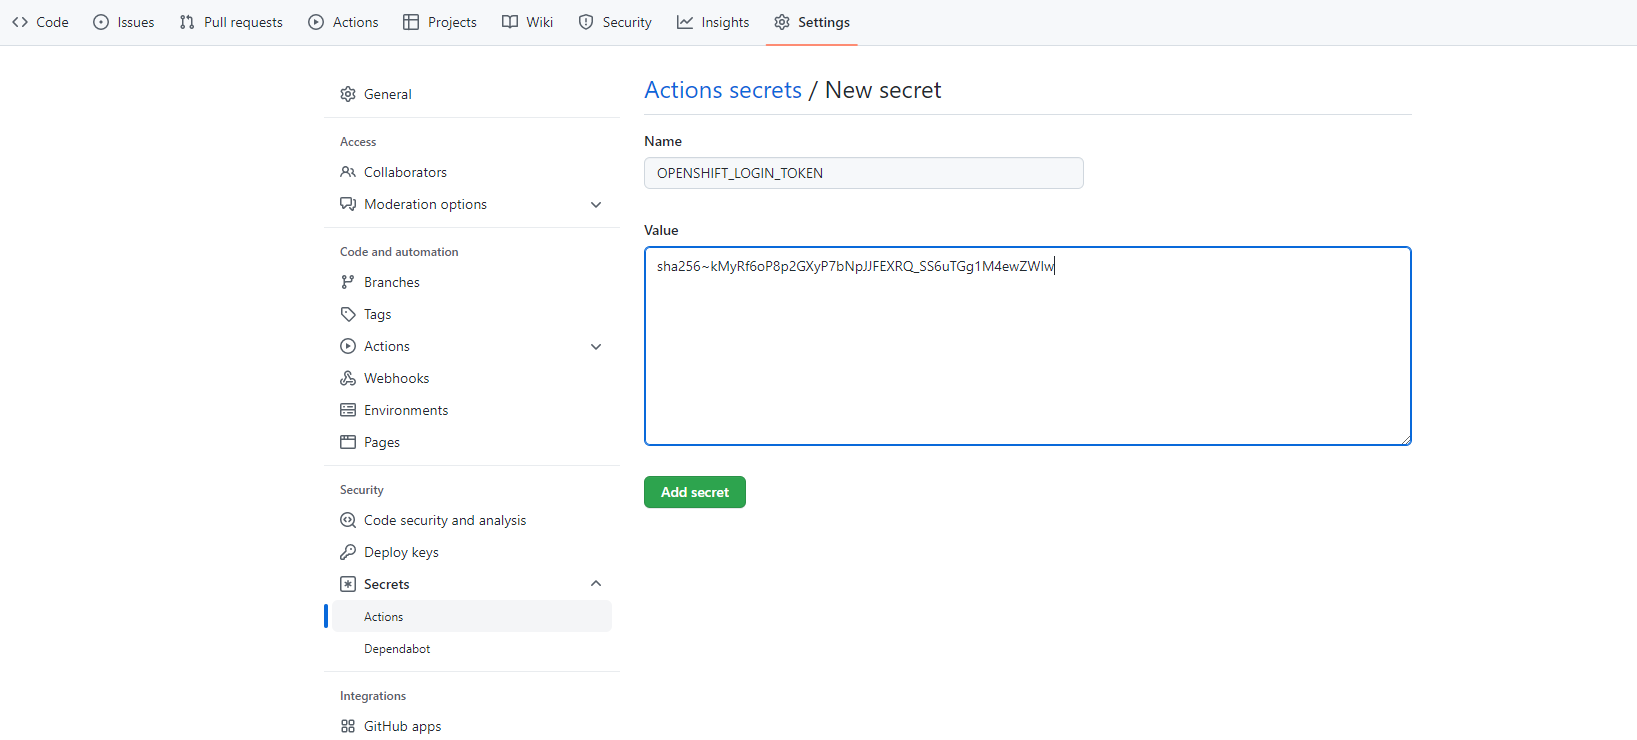
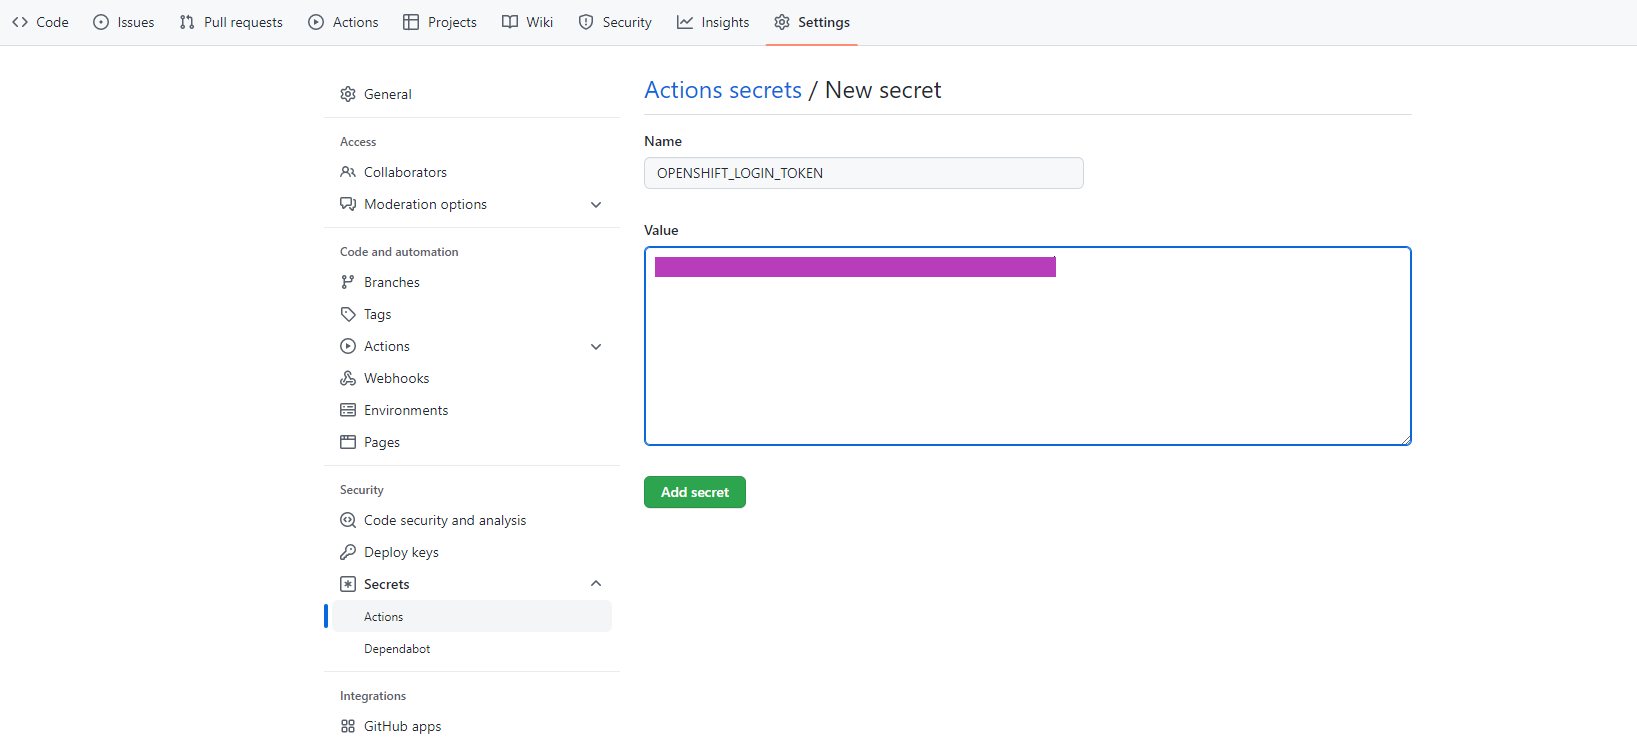
finalizing almost

Changed region(s): [[0.3739, 0.3419, 0.6542, 0.373]]

diff --git a/README.md b/README.md
@@ -28,15 +28,24 @@ With your OpenShift 4 cluster setup, we can now proceed with the demonstration u
 
   - **APIMATICLICENSEBLOB**:
     This is the APIMatic CodeGen License string that will be used to start up the APIMatic CodeGen instances.
+    ![Github secrets](./docs/7.png)
   - **OPENSHIFT_LOGIN_SERVER**:
-    This is the value found when you click on the _Copy login command_ as shown below:
+    This is the value found when you click on the _Copy login command_ as shown below. Copy the values masked by green:
+    ![Login Page](./docs/1.png)
+    ![Click Token](./docs/2.png)
+    ![Credentials](./docs/3.png)
+    ![Server](./docs/4.png)
   - **OPENSHIFT_LOGIN_TOKEN**:
-    This is the server value found when you click on the _Copy login command_ as shown below:
+    This is the token value found when you click on the _Copy Login Command_. Copy the value maked by pink:
+    ![Token](./docs/5.png)
   - **OPENSHIFT_PROJECT**:
     This is the name of the OpenShift project that will be created in which the Tekton tasks and pipeline resources will be deployed as well as the
     APIMatic CodeGen Server and the DX Portal resources.
+    ![Namespace](./docs/6.png)
 
   Once these are setup, your GitHub Repo secrets page should be as shown below:
+
+  ![GitHub Secrets](./docs/8.png)
 
 - **Initial OpenShift Infrastructure Setup**
 
@@ -55,6 +64,9 @@ With your OpenShift 4 cluster setup, we can now proceed with the demonstration u
   - Deploy the Tekton [Tasks and Pipeline](./.tekton/) resources.
 
   - Trigger the [build-and-deploy](./.tekton/pipeline.yaml) pipeline with the configured parameter values. This will set off a sequence of tasks starting with cloning the GitHub repository contents and finishing off with an initial DX portal web server that is externally accessible using the generated OpenShift route.
+
+  ![OpenShift route](./docs/11.png)
+  ![Original Portal View](./docs/12.png)
 
 - **Make Changes and View Results**
 
@@ -102,4 +114,28 @@ With your OpenShift 4 cluster setup, we can now proceed with the demonstration u
 
   The resulting re-generated portal will now have the following look:
 
+  ![Updated Portal View](./docs/16.png)
+
+  Admittedly, not the best-looking API DX portal in the world but the emphasis was on demonstrating the flexibility APIMatic CodeGen offers in tweaking your DX portal to look just the way you want.
+
+  Since this is a CI/CD pipeline demo after all, feel free to keep making changes in the APIMatic Build file, commit the changes and see how your DX portal appearance alters accordingly.
+
   You can make these and many more changes by using the [APIMatic CodeGen Build File Reference](https://apimatic-core-v3-docs.netlify.app/#/http/generating-api-portal/build-file-reference).
+
+## Additional Resources
+
+### Documentation
+
+The complete online documentation for all APIMatic offerings is available at:
+[https://docs.apimatic.io/](https://docs.apimatic.io/)
+
+## Technical Support
+
+Alachisoft [C] provides various sources of technical support.
+
+- Please refer to the [APIMatic contact page](https://www.apimatic.io/contact/) to select a support resource you find suitable for your issue.
+- To request additional features in the future, or if you notice any discrepancy regarding this document, please drop an email to [support@apimatic.io](mailto:support@apimatic.io).
+
+### Copyrights
+
+[C] Copyright 2022 APIMatic
